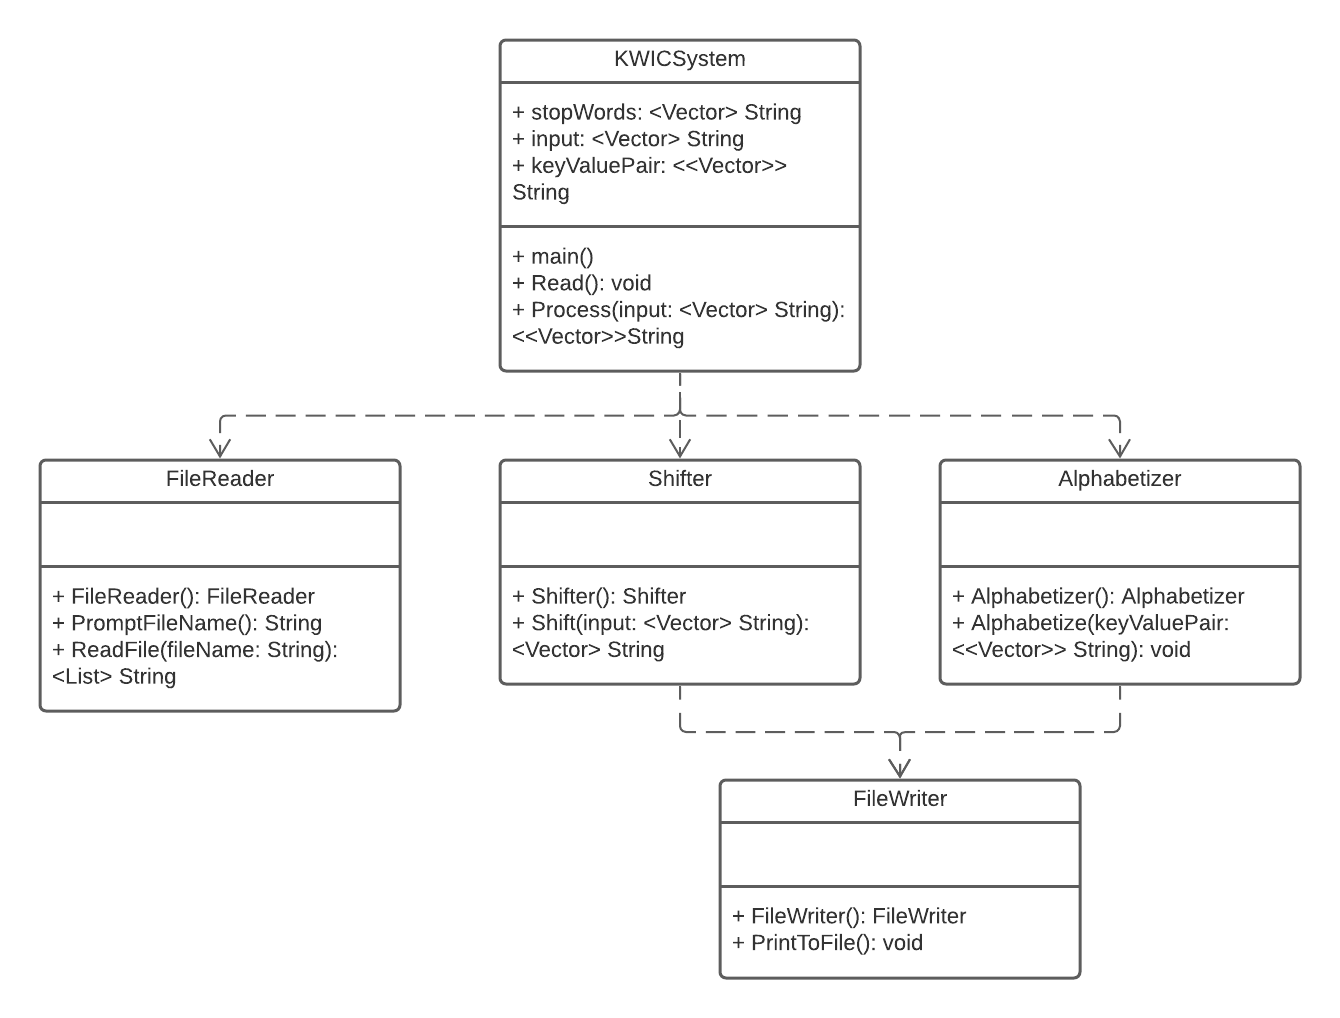
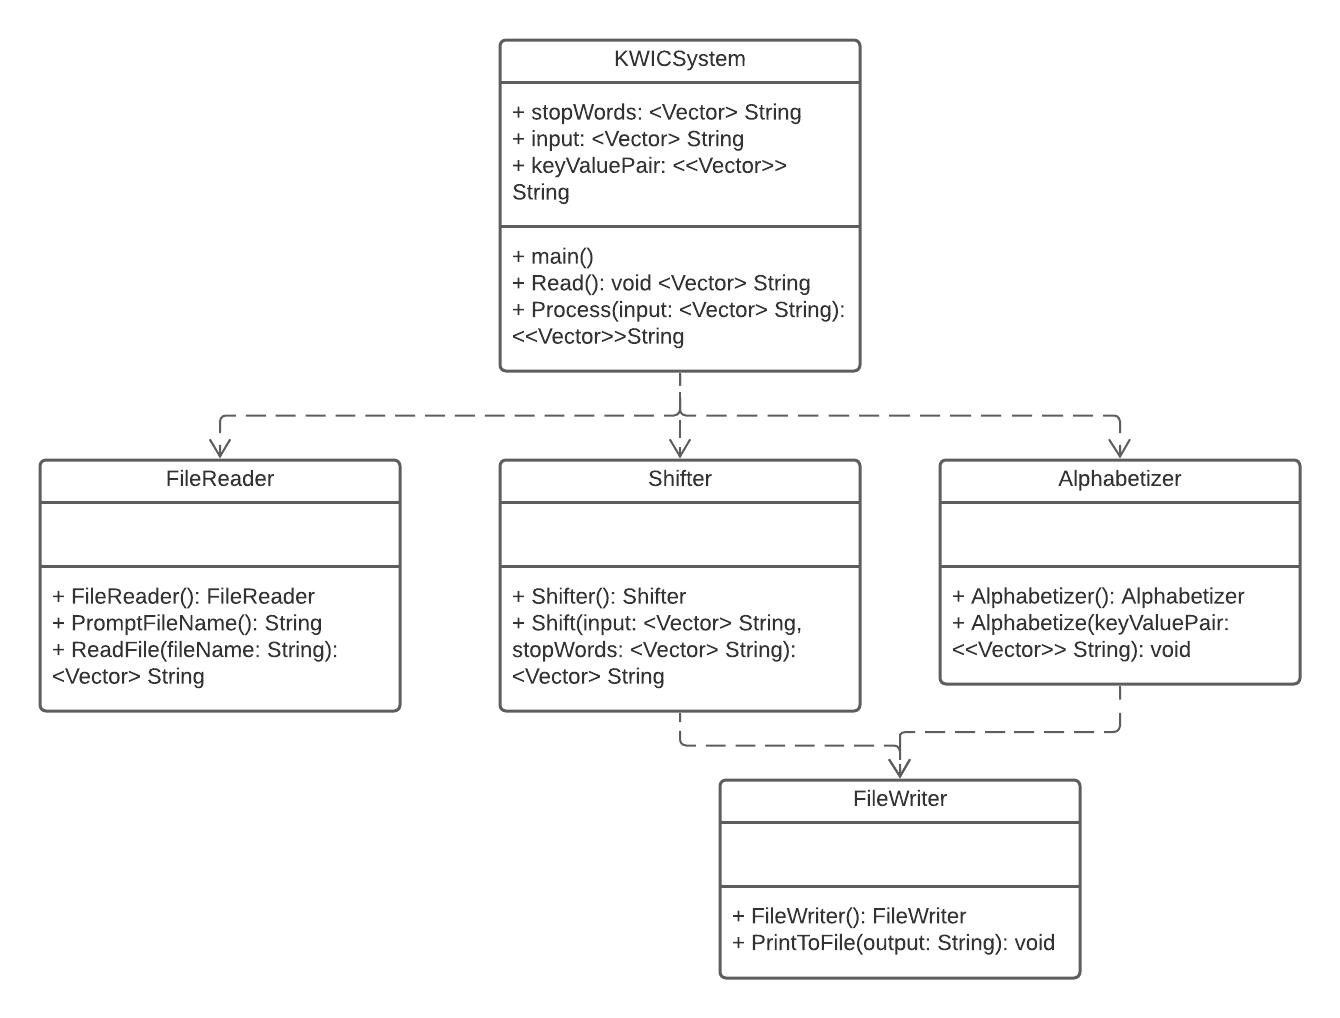
Updated UML and created new Java project with outline of all modules. FileReader and FileWrite are fully mplemented.

diff --git a/.idea/description.html b/.idea/description.html
@@ -1,0 +1,1 @@
+<html>Simple <b>Java</b> application that includes a class with <code>main()</code> method</html>

diff --git a/src/com/company/FileReader.java b/src/com/company/FileReader.java
@@ -1,0 +1,53 @@
+package com.company;
+
+import java.io.FileNotFoundException;
+import java.io.IOException;
+import java.util.Scanner;
+import java.util.Vector;
+
+public class FileReader {
+    public FileReader(){
+
+    }
+
+    public String PromptFileName(){
+        String fileName = "";
+        Scanner scan = new Scanner(System.in);
+
+        System.out.print("\nPlease enter the fileName of the file you wish to process: ");
+        fileName = scan.nextLine();
+
+        return fileName;
+    }
+
+    public Vector<String> ReadFile(String fileName){
+        Vector input = new Vector();
+        fileName =  "./InputText/" + fileName;
+
+        try (java.io.FileReader f = new java.io.FileReader(fileName)) {
+            StringBuffer sb = new StringBuffer();
+            while (f.ready()) {
+                char c = (char) f.read();
+                if (c == ' ') {
+                    String text = sb.toString().trim();
+                    input.add(text);
+                    sb = new StringBuffer();
+                } else {
+                    sb.append(c);
+                }
+            }
+            if (sb.length() > 0) {
+                String correct = sb.toString().trim();
+
+                input.add(correct);
+            }
+        } catch (FileNotFoundException e) {
+            System.out.println("Test file not found. Try again or type \"Quit\"");
+        } catch (IOException e) {
+            System.out.println("Critical error. Try again or type \"Quit\"");
+        }
+
+        return input;
+    }
+
+}

diff --git a/src/com/company/KWICSystem.java b/src/com/company/KWICSystem.java
@@ -1,0 +1,39 @@
+package com.company;
+
+import java.util.Scanner;
+import java.util.Vector;
+
+public class KWICSystem {
+
+    public static void main(String[] args) {
+        Vector<String> stopWords = new Vector();
+        Vector<String> input = new Vector();
+        Vector<Vector<String>> keyValuePairs = new Vector<Vector<String>>();
+
+        System.out.println("Welcome to the KWIC system.");
+
+        input = Read();
+        System.out.println(input);
+
+        FileWrite write = new FileWrite();
+        for (Integer i = 0; i < input.size(); i++)
+        {
+            write.PrintToFile(input.get(i));
+        }
+
+    }
+
+    public static Vector<String> Read(){
+        FileReader reader = new FileReader();
+        String fileName = reader.PromptFileName();
+
+        return reader.ReadFile(fileName);
+    }
+
+    public static Vector<Vector<String>> Process(){
+        Vector<Vector<String>> keyValuePair = new Vector<Vector<String>>();
+
+
+        return keyValuePair;
+    }
+}

diff --git a/src/com/company/FileWrite.java b/src/com/company/FileWrite.java
@@ -1,0 +1,24 @@
+package com.company;
+
+import java.io.BufferedWriter;
+import java.io.FileWriter;
+import java.io.IOException;
+
+public class FileWrite {
+    public FileWrite(){
+
+    }
+
+    public void PrintToFile(String output){
+        String fileName = "./Output/output.txt";
+        try {
+            BufferedWriter writer = new BufferedWriter(new FileWriter(fileName , true));
+            writer.append(" ");
+            writer.append(output);
+
+            writer.close();
+        } catch (IOException e) {
+            e.printStackTrace();
+        }
+    }
+}

diff --git a/src/com/company/Alphabetizer.java b/src/com/company/Alphabetizer.java
@@ -1,0 +1,13 @@
+package com.company;
+
+import java.util.Vector;
+
+public class Alphabetizer {
+    public Alphabetizer(){
+
+    }
+
+    public void Alphabetize(Vector<Vector<String>> keyValuePair){
+
+    }
+}

diff --git a/src/com/company/Shifter.java b/src/com/company/Shifter.java
@@ -1,0 +1,13 @@
+package com.company;
+
+import java.util.Vector;
+
+public class Shifter {
+    public Shifter(){
+
+    }
+
+    public void Shift(Vector<String> input, Vector<String> stopWords){
+
+    }
+}
